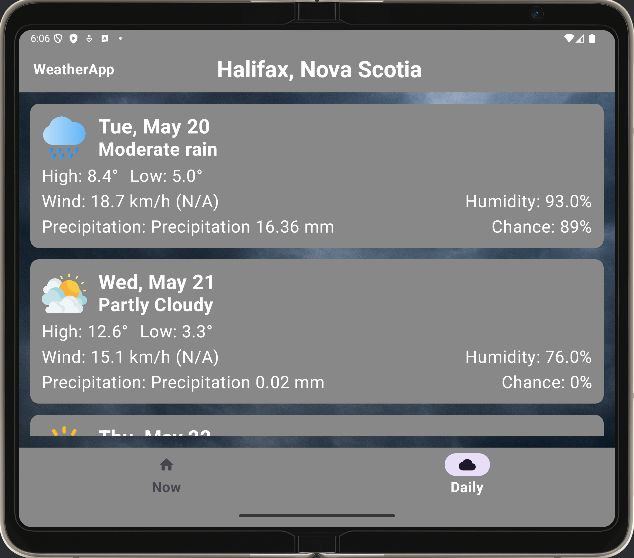
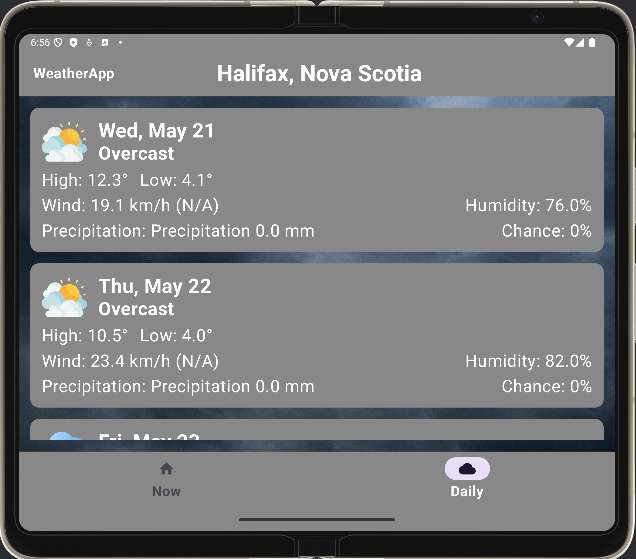
new screenshots

Changed region(s): [[0.0, 0.0, 1.0, 1.0]]

diff --git a/app/src/main/java/com/example/weatherapp/ui/screens/DailyForecast.kt b/app/src/main/java/com/example/weatherapp/ui/screens/DailyForecast.kt
@@ -70,7 +70,7 @@ fun DailyForecastScreen(weather: Weather?) {
                 // Chooses icon based on day's weather condition text
                 icon = when {
                     day.day.condition.text.contains("Sunny", ignoreCase = true) -> R.drawable.sunny
-                    day.day.condition.text.contains("Cloud", ignoreCase = true) -> R.drawable.cloudy
+                    day.day.condition.text.contains("Cloud", ignoreCase = true) || day.day.condition.text.contains("Overcast", ignoreCase = true) -> R.drawable.cloudy
                     day.day.condition.text.contains("Rain", ignoreCase = true) -> R.drawable.rainy
                     day.day.condition.text.contains("Snow", ignoreCase = true) -> R.drawable.snow
                     day.day.condition.text.contains("Fog", ignoreCase = true) || day.day.condition.text.contains("Mist", ignoreCase = true) -> R.drawable.fog
